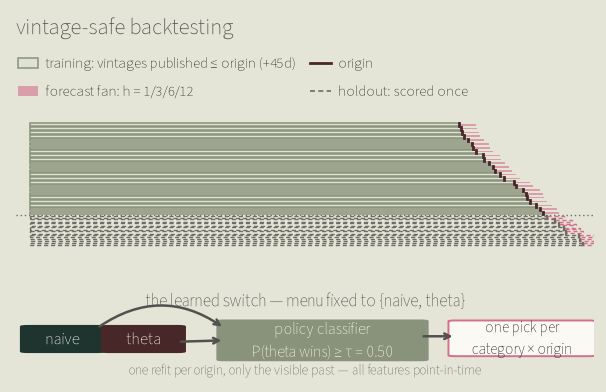
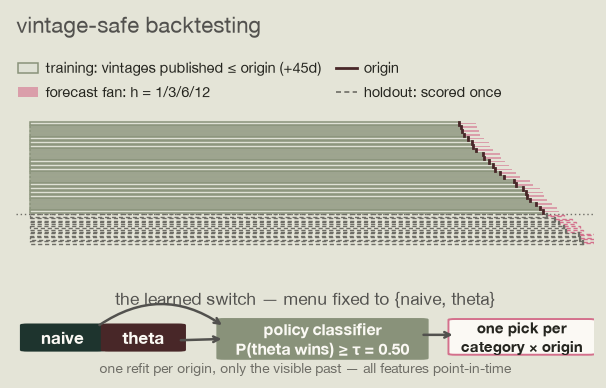
retailpred preview + prompt: figure text in the system sans
Owner call - Source Sans 3 still didn't match the placeholder style.
The placeholders label in generic sans-serif (Helvetica on macOS), so
the schematic uses the system sans stack; the vendored webfont TTFs are
dropped and the prompt's font rule records the final decision.

diff --git a/PROMPT_PROJECT_ENTRIES.md b/PROMPT_PROJECT_ENTRIES.md
@@ -159,14 +159,12 @@ arrows), NOT on data-chart chrome:
   green background `#e4e4d7` (the `.project-art` color) — the figure's
   facecolor IS the background, so the preview fills the card
   edge-to-edge with no white letterbox.
-- **Fonts**: ALL figure text in Source Sans 3 — the site's sans voice,
-  the same face as the placeholder-diagram text and body copy. The
-  variable TTF is vendored at
-  `~/retailPRED-satellite/scripts/fonts/SourceSans3[wght].ttf` (+ OFL)
-  and registered with `font_manager.fontManager.addfont(...)`; neither
-  Source Sans 3 nor IBM Plex Mono is system-installed, and mono was
-  rejected for figures (owner, 2026-11-06) — it doesn't match the
-  placeholder text style.
+- **Fonts**: ALL figure text in the plain system sans —
+  `plt.rcParams["font.sans-serif"] = ["Helvetica Neue", "Helvetica",
+  "Arial", "DejaVu Sans"]` — because the placeholder diagrams label in
+  generic `sans-serif`, which macOS renders as Helvetica. No webfonts,
+  no vendored TTFs. (Rejected by owner: IBM Plex Mono — didn't match the
+  placeholder text style; Source Sans 3 webfont — "not even close".)
 - **Canvas**: render at exactly 2× the card art box ≈ 642×320 px
   (aspect 2.0). Type at 10–16pt then stays legible when the card shows it
   at ~330 px. Save with `bbox_inches="tight", pad_inches=0.12` so nothing
